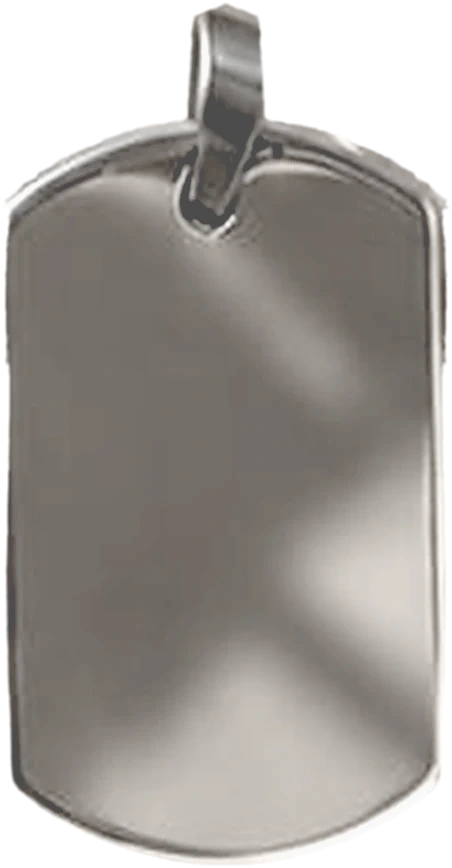
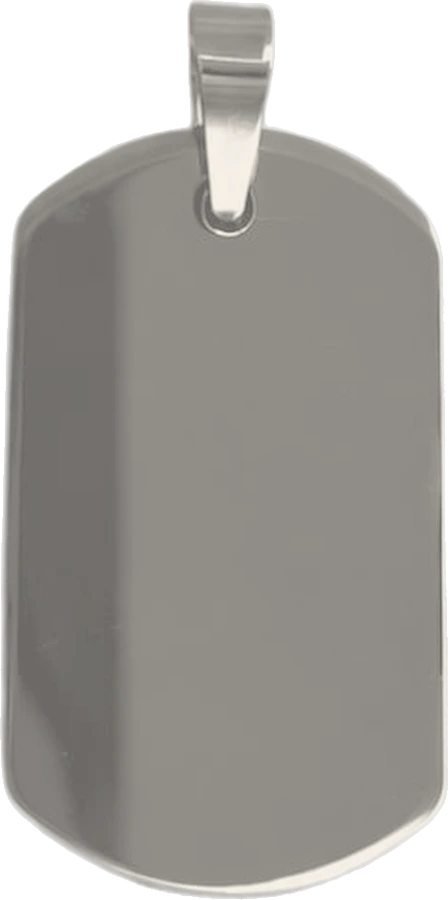
sanzo-web: chapitas nítidas desde las fotos grandes, foto de la chapita con la luz de los ítems y portada 'para mascotas'
Claude-Session: https://claude.ai/code/session_01P6hnxyPJoCWf1hADAnftqP

diff --git a/sanzo-web/data/products.ts b/sanzo-web/data/products.ts
@@ -171,7 +171,7 @@ export const sitio = {
     /** El título va en dos partes: la primera palabra grande y el cierre más chico, en marrón. */
     titulo: "Sacalo",
     cierre: "como se merece",
-    bajada: "Accesorios para perros, pensados para salir juntos.",
+    bajada: "Accesorios para mascotas, pensados para salir juntos.",
     boton: "Ver el kit",
     link: "#kit",
     fotos: ["/productos/hero/gato.jpg", "/productos/hero/gorra.jpg", "/productos/hero/salchicha.jpg"],
@@ -837,19 +837,19 @@ export const ofertaChapita = {
   tipos: [
     {
       id: "Huesito", texto: "Huesito", imagen: "/productos/chapitas/huesito.jpg", zona: { x: 300, y: 380, ancho: 250, alto: 120 },
-      recorte: { src: "/productos/chapitas/recortes/huesito.webp", ancho: 775, alto: 577 }, zonaRecorte: { x: 0.5, y: 0.63, ancho: 0.6, alto: 0.36 },
+      recorte: { src: "/productos/chapitas/recortes/huesito.webp", ancho: 750, alto: 566 }, zonaRecorte: { x: 0.505, y: 0.64, ancho: 0.62, alto: 0.36 },
     },
     {
       id: "Corazón", texto: "Corazón", imagen: "/productos/chapitas/corazon.jpg", zona: { x: 278, y: 350, ancho: 185, alto: 120 },
-      recorte: { src: "/productos/chapitas/recortes/corazon.webp", ancho: 479, alto: 641 }, zonaRecorte: { x: 0.5, y: 0.56, ancho: 0.6, alto: 0.3 },
+      recorte: { src: "/productos/chapitas/recortes/corazon.webp", ancho: 512, alto: 684 }, zonaRecorte: { x: 0.5, y: 0.56, ancho: 0.62, alto: 0.32 },
     },
     {
       id: "Circular", texto: "Circular", imagen: "/productos/chapitas/circular.jpg", zona: { x: 256, y: 390, ancho: 185, alto: 140 },
-      recorte: { src: "/productos/chapitas/recortes/circular.webp", ancho: 455, alto: 593 }, zonaRecorte: { x: 0.52, y: 0.62, ancho: 0.66, alto: 0.44 },
+      recorte: { src: "/productos/chapitas/recortes/circular.webp", ancho: 481, alto: 716 }, zonaRecorte: { x: 0.5, y: 0.665, ancho: 0.68, alto: 0.4 },
     },
     {
       id: "Placa", texto: "Placa", imagen: "/productos/chapitas/rectangular.jpg", zona: { x: 266, y: 365, ancho: 180, alto: 200 },
-      recorte: { src: "/productos/chapitas/recortes/placa.webp", ancho: 452, alto: 868 }, zonaRecorte: { x: 0.5, y: 0.58, ancho: 0.7, alto: 0.6 },
+      recorte: { src: "/productos/chapitas/recortes/placa.webp", ancho: 448, alto: 900 }, zonaRecorte: { x: 0.5, y: 0.58, ancho: 0.74, alto: 0.62 },
     },
   ] as {
     id: string;

diff --git a/sanzo-web/app/layout.tsx b/sanzo-web/app/layout.tsx
@@ -23,10 +23,10 @@ const descripcion =
 
 export const metadata: Metadata = {
   metadataBase: new URL(urlSitio),
-  title: "sanzo — accesorios para perros",
+  title: "sanzo — accesorios para mascotas",
   description: descripcion,
   openGraph: {
-    title: "sanzo — accesorios para perros",
+    title: "sanzo — accesorios para mascotas",
     description: descripcion,
     type: "website",
     locale: "es_AR",

diff --git a/sanzo-web/app/opengraph-image.tsx b/sanzo-web/app/opengraph-image.tsx
@@ -2,7 +2,7 @@ import { ImageResponse } from "next/og";
 
 // Imagen Open Graph placeholder. Para usar una foto: borrá este archivo y poné
 // app/opengraph-image.jpg (1200x630).
-export const alt = "sanzo — accesorios para perros";
+export const alt = "sanzo — accesorios para mascotas";
 export const size = { width: 1200, height: 630 };
 export const contentType = "image/png";
 

diff --git a/sanzo-web/MEJORAS.md b/sanzo-web/MEJORAS.md
@@ -397,3 +397,9 @@ Parche de cuerina recortado y grabado con láser, pegado (liso). Todo editable e
 - [ ] Videos de clientes → `clientes.videos[].video`.
 - [ ] Precios de personalización ("p de precios", Santi lo ve después).
 - [ ] Fotos de la parte de atrás de cada pieza (Santi las pasa).
+
+## 2026-10-30 · Chapita con fotos nítidas y portada "para mascotas"
+- Recortes de las 4 chapitas rehechos desde las fotos grandes (`chapitas/huesito.jpg`, etc.), pasadas a acero claro: más nítidos y bien recortados. Zonas del grabado recalculadas (el nombre queda centrado en el huesito).
+- Foto de la chapita en Individuales (`piezas/chapita.jpg`, 1080×1350) con el mismo fondo de lino y sombra de palmera que el resto de los ítems (el fondo sale de la foto del moño, sin el moño).
+- Portada y título de la página: "Accesorios para mascotas" (antes "para perros").
+- [ ] Moño: la foto de la web la hizo una IA y no se parece al real. Falta foto real del moño (Santi la pasa).
